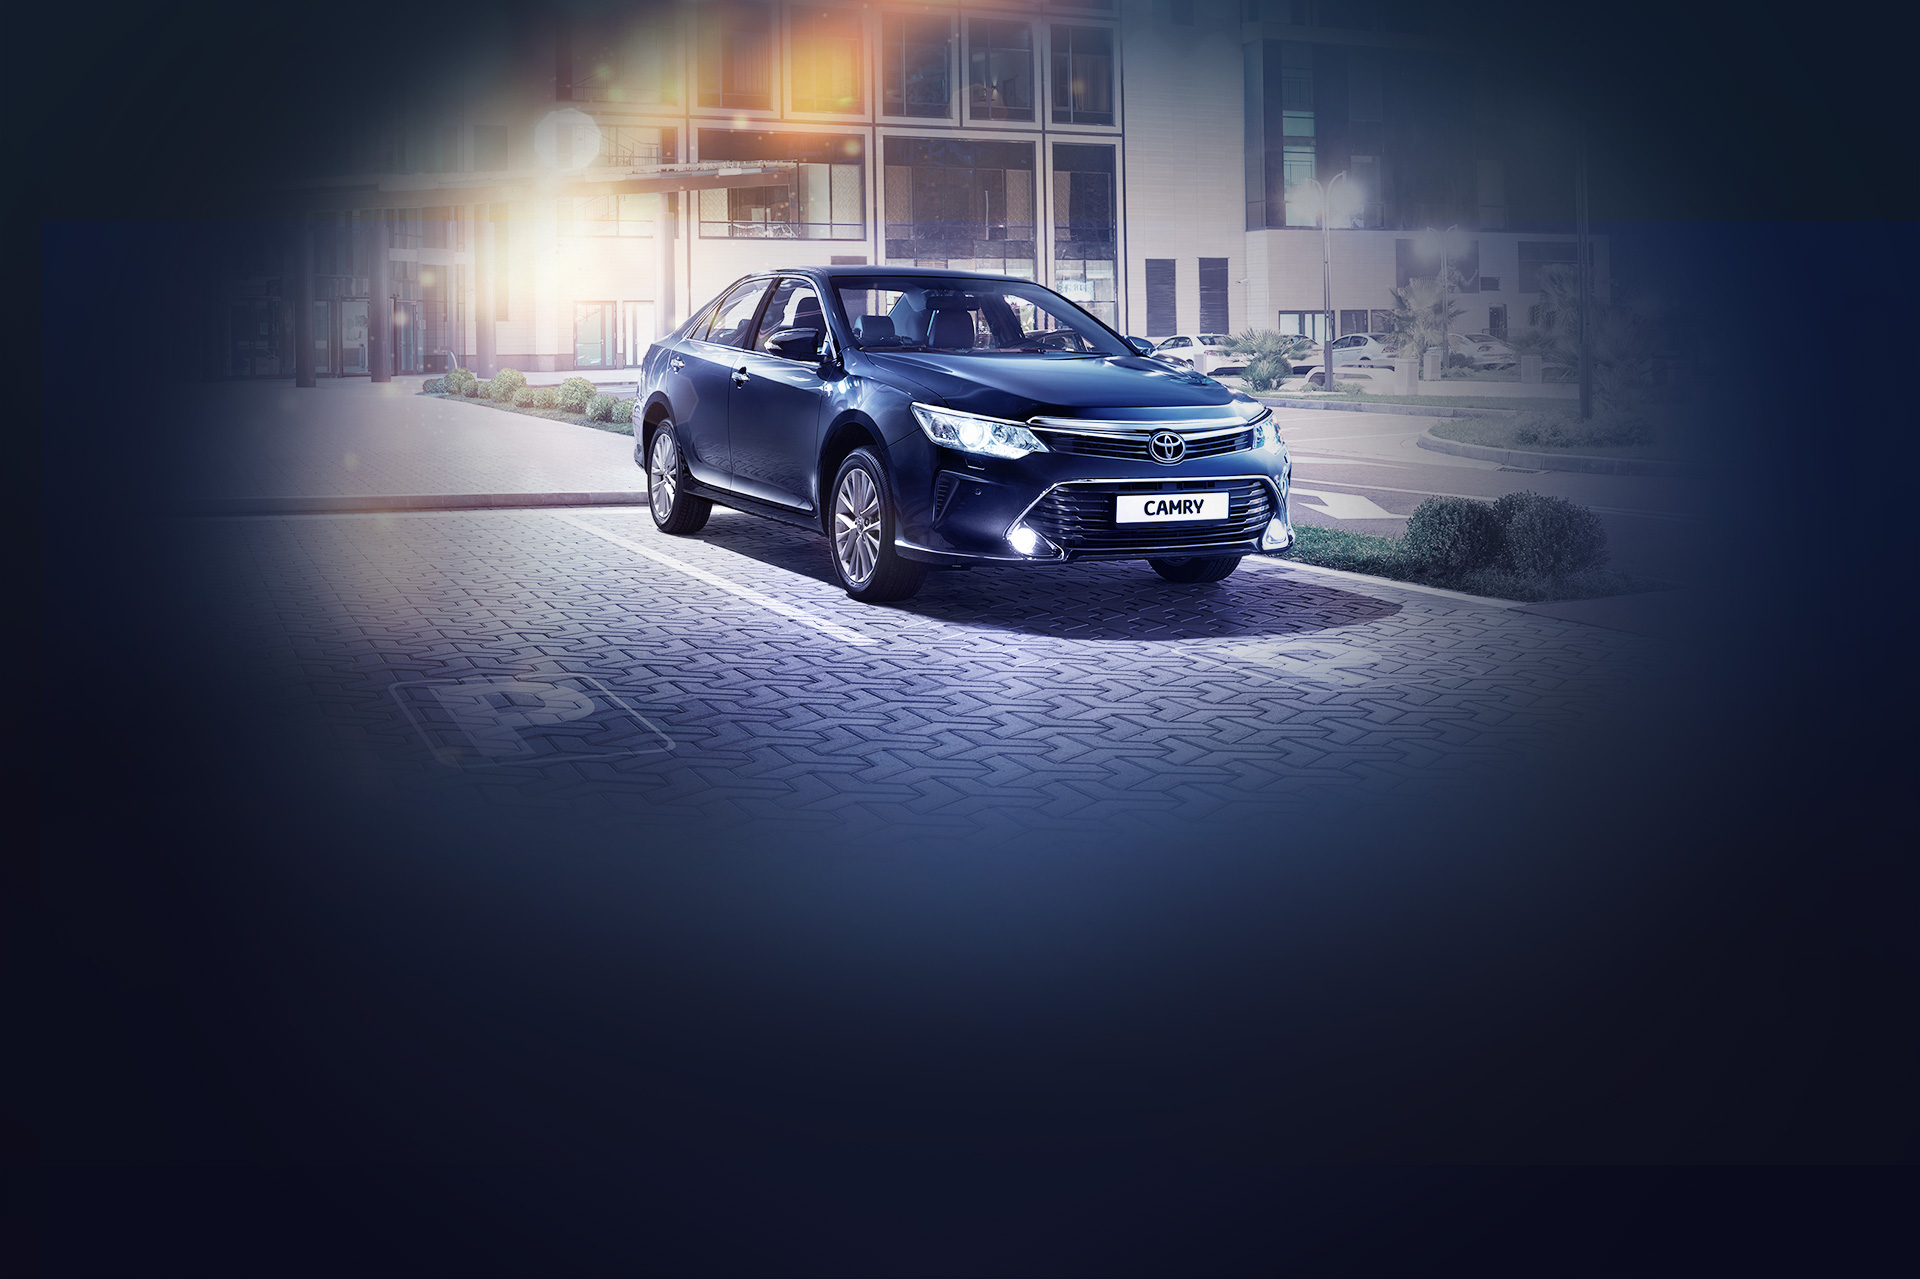
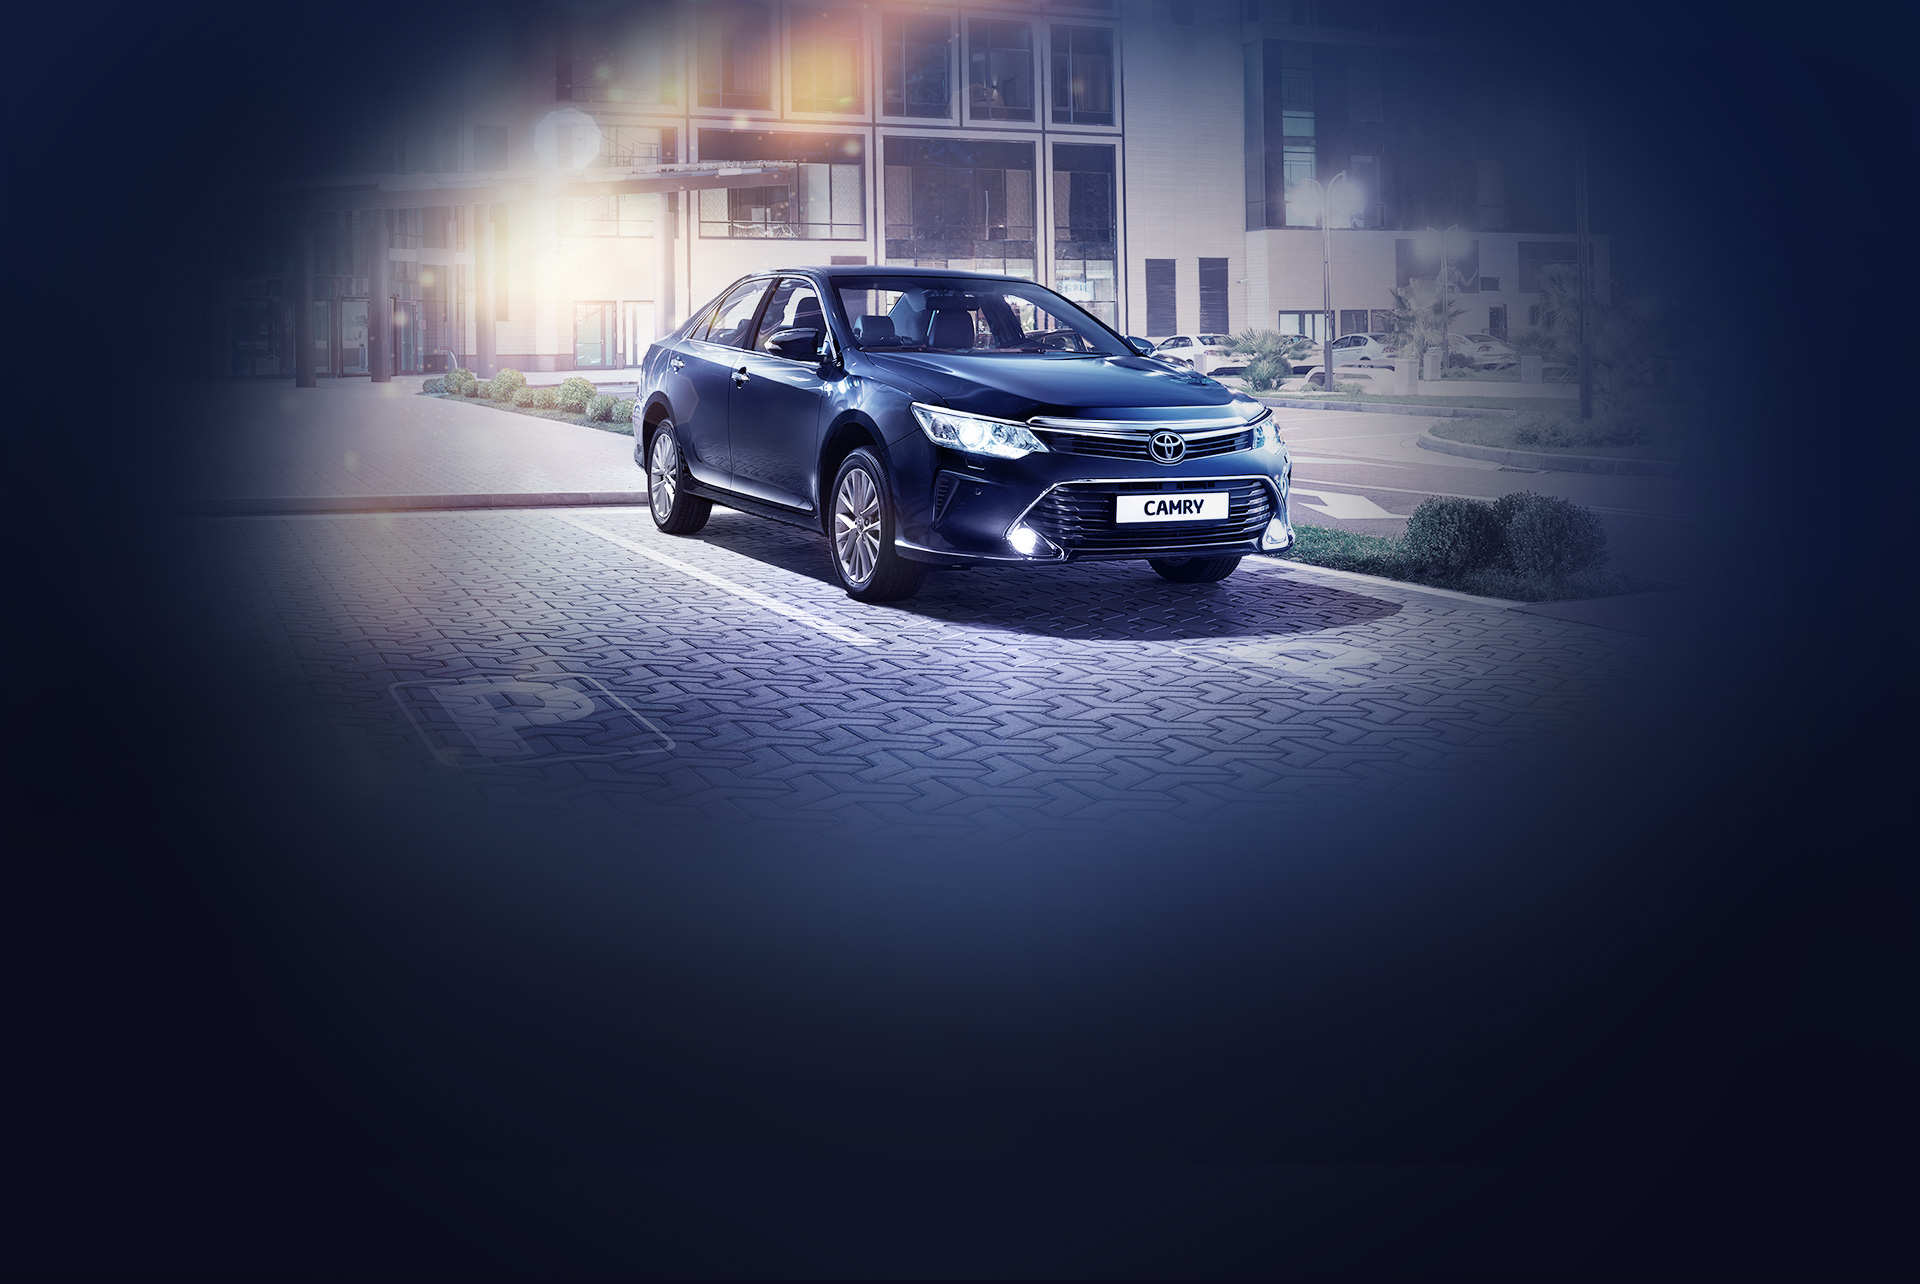
ksps

Changed region(s): [[0.1875, 0.0, 0.8125, 0.6099]]

diff --git a/public/theme/app/styles/_ksps.scss b/public/theme/app/styles/_ksps.scss
@@ -1,0 +1,145 @@
+.ksps {
+    background-image: url(../images/no/background.jpg);
+    background-size: 1920rem / $fs 1284rem / $fs;
+    background-position: center top;
+    background-repeat: no-repeat;
+    background-color: #0a0b1d;
+
+    .ksps__title {
+        font-family: 'toyota_display';
+        font-weight: 700;
+        font-size: 56rem / $fs;
+        color: #fff;
+        text-align: center;
+        margin-top: 70rem / $fs;
+    }
+
+    .ksps-list {
+        font-size: 0;
+        margin-top: 60rem / $fs;
+
+        .list__item-big {
+            position: relative;
+            display: inline-block;
+            vertical-align: top;
+            height: 305rem / $fs;
+            width: 50%;
+
+            .big__block {
+                position: relative;
+                display: inline-block;
+                vertical-align: top;
+                box-sizing: border-box;
+                width: 50%;
+                height: 305rem / $fs;
+                padding: 2.5rem / $fs;
+
+                .block__content {
+                    display: inline-block;
+                    height: 100%;
+                    width: 100%;
+                    background-position: center center;
+                    background-size: cover;
+                }
+
+                &:first-child {
+                    &:before {
+                        content: "";
+                        position: absolute;
+                        top: 0;
+                        left: 0;
+                        right: 0;
+                        bottom: 0;
+                        border: 5rem / $fs solid #fff;
+                        opacity: 0;
+                        transition: all .5s ease;
+                    }
+                }
+            }
+
+            .big__hover {
+                position: absolute;
+                right: 0;
+                top: 0;
+                bottom: 0;
+                left: 49%;
+                background: #fff;
+                opacity: 0;
+                transition: all .5s ease;
+                color: #000;
+                font-size: 13rem / $fs;
+
+                .hover__info {
+                    display: inline-block;
+                    vertical-align: middle;
+                    width: 90%;
+                    padding-left: 15rem / $fs;
+
+                    .hover__title {
+                        font-size: 30rem / $fs;
+                        font-weight: 700;
+                        font-family: 'toyota_display';
+                    }
+
+                    .hover__text {
+                        color: #323d46;
+                        //margin-top: 5rem / $fs;
+                    }
+                }
+
+                &:before {
+                    content: "";
+                    width: 0;
+                    height: 100%;
+                    display: inline-block;
+                    vertical-align: middle;
+                }
+            }
+
+            &:hover {
+                .big__hover {
+                    opacity: 1;
+                }
+                .big__block {
+                    &:before {
+                        opacity: 1;
+                    }
+                }
+            }
+        }
+    }
+
+    &:before {
+        content: "";
+        position: absolute;
+        left: 50%;
+        top: 0;
+        bottom: 0;
+        width: 100rem / $fs;
+        margin-left: -960rem / $fs;
+        background: -moz-linear-gradient(left,  rgba(10, 11, 29, 1) 0%, rgba(0,0,0,0) 100%); /* FF3.6+ */
+        background: -webkit-gradient(linear, left top, right top, color-stop(0%,rgba(10, 11, 29, 1)), color-stop(100%,rgba(0,0,0,0))); /* Chrome,Safari4+ */
+        background: -webkit-linear-gradient(left,  rgba(10, 11, 29, 1) 0%,rgba(0,0,0,0) 100%); /* Chrome10+,Safari5.1+ */
+        background: -o-linear-gradient(left,  rgba(10, 11, 29, 1) 0%,rgba(0,0,0,0) 100%); /* Opera 11.10+ */
+        background: -ms-linear-gradient(left,  rgba(10, 11, 29, 1) 0%,rgba(0,0,0,0) 100%); /* IE10+ */
+        background: linear-gradient(to right,  rgba(10, 11, 29, 1) 0%,rgba(0,0,0,0) 100%); /* W3C */
+        filter: progid:DXImageTransform.Microsoft.gradient( startColorstr='#131220', endColorstr='#00000000',GradientType=1 ); /* IE6-9 */
+    }
+
+    &:after {
+        content: "";
+        position: absolute;
+        left: 50%;
+        top: 0;
+        bottom: 0;
+        width: 100rem / $fs;
+        margin-left: 860rem / $fs;
+        background: -moz-linear-gradient(left,  rgba(0,0,0,0) 0%, rgba(10, 11, 29, 1) 100%); /* FF3.6+ */
+        background: -webkit-gradient(linear, left top, right top, color-stop(0%,rgba(0,0,0,0)), color-stop(100%,rgba(10, 11, 29, 1))); /* Chrome,Safari4+ */
+        background: -webkit-linear-gradient(left,  rgba(0,0,0,0) 0%,rgba(10, 11, 29, 1) 100%); /* Chrome10+,Safari5.1+ */
+        background: -o-linear-gradient(left,  rgba(0,0,0,0) 0%,rgba(10, 11, 29, 1) 100%); /* Opera 11.10+ */
+        background: -ms-linear-gradient(left,  rgba(0,0,0,0) 0%,rgba(10, 11, 29, 1) 100%); /* IE10+ */
+        background: linear-gradient(to right,  rgba(0,0,0,0) 0%,rgba(10, 11, 29, 1) 100%); /* W3C */
+        filter: progid:DXImageTransform.Microsoft.gradient( startColorstr='#00000000', endColorstr='#131220',GradientType=1 ); /* IE6-9 */
+    }
+}

diff --git a/public/theme/app/styles/_yes.scss b/public/theme/app/styles/_yes.scss
@@ -383,7 +383,10 @@
 
     &.no-screen {
         background-image: url(../images/no/background.jpg);
-        background-size: 1920rem / $fs 1279rem / $fs;
+        background-size: 1920rem / $fs 1284rem / $fs;
+        background-position: center top;
+        background-repeat: no-repeat;
+        background-color: #0a0b1d;
 
         .list__main-item {
             display: none;
@@ -404,6 +407,40 @@
                     display: none;
                 } 
             }
+        }
+
+        &:before {
+            content: "";
+            position: absolute;
+            left: 50%;
+            top: 0;
+            bottom: 0;
+            width: 100rem / $fs;
+            margin-left: -960rem / $fs;
+            background: -moz-linear-gradient(left,  rgba(10, 11, 29, 1) 0%, rgba(0,0,0,0) 100%); /* FF3.6+ */
+            background: -webkit-gradient(linear, left top, right top, color-stop(0%,rgba(10, 11, 29, 1)), color-stop(100%,rgba(0,0,0,0))); /* Chrome,Safari4+ */
+            background: -webkit-linear-gradient(left,  rgba(10, 11, 29, 1) 0%,rgba(0,0,0,0) 100%); /* Chrome10+,Safari5.1+ */
+            background: -o-linear-gradient(left,  rgba(10, 11, 29, 1) 0%,rgba(0,0,0,0) 100%); /* Opera 11.10+ */
+            background: -ms-linear-gradient(left,  rgba(10, 11, 29, 1) 0%,rgba(0,0,0,0) 100%); /* IE10+ */
+            background: linear-gradient(to right,  rgba(10, 11, 29, 1) 0%,rgba(0,0,0,0) 100%); /* W3C */
+            filter: progid:DXImageTransform.Microsoft.gradient( startColorstr='#131220', endColorstr='#00000000',GradientType=1 ); /* IE6-9 */
+        }
+
+        &:after {
+            content: "";
+            position: absolute;
+            left: 50%;
+            top: 0;
+            bottom: 0;
+            width: 100rem / $fs;
+            margin-left: 860rem / $fs;
+            background: -moz-linear-gradient(left,  rgba(0,0,0,0) 0%, rgba(10, 11, 29, 1) 100%); /* FF3.6+ */
+            background: -webkit-gradient(linear, left top, right top, color-stop(0%,rgba(0,0,0,0)), color-stop(100%,rgba(10, 11, 29, 1))); /* Chrome,Safari4+ */
+            background: -webkit-linear-gradient(left,  rgba(0,0,0,0) 0%,rgba(10, 11, 29, 1) 100%); /* Chrome10+,Safari5.1+ */
+            background: -o-linear-gradient(left,  rgba(0,0,0,0) 0%,rgba(10, 11, 29, 1) 100%); /* Opera 11.10+ */
+            background: -ms-linear-gradient(left,  rgba(0,0,0,0) 0%,rgba(10, 11, 29, 1) 100%); /* IE10+ */
+            background: linear-gradient(to right,  rgba(0,0,0,0) 0%,rgba(10, 11, 29, 1) 100%); /* W3C */
+            filter: progid:DXImageTransform.Microsoft.gradient( startColorstr='#00000000', endColorstr='#131220',GradientType=1 ); /* IE6-9 */
         }
     }
 

diff --git a/public/theme/app/scripts/main.js b/public/theme/app/scripts/main.js
@@ -599,30 +599,30 @@ Camry.yesScreen = function() {
         $(document).on('keydown', function(e){ 
             var code = e.which;
             if(code == 40) {
+                e.preventDefault();
                 self.navigation.bottom();
             }
-            e.preventDefault();
         });
         $(document).on('keydown', function(e){ 
             var code = e.which;
             if(code == 38) {
+                e.preventDefault();
                 self.navigation.top();
             }
-            e.preventDefault();
         });
         $(document).on('keydown', function(e){ 
             var code = e.which;
             if(code == 37) {
+                e.preventDefault();
                 self.navigation.left();
             }
-            e.preventDefault();
         });
         $(document).on('keydown', function(e){ 
             var code = e.which;
             if(code == 39) {
+                e.preventDefault();
                 self.navigation.right();
             }
-            e.preventDefault();
         });
     }
     this.init = function() {

diff --git a/public/theme/app/styles/main.scss b/public/theme/app/styles/main.scss
@@ -13,5 +13,6 @@ $defaultEasing: cubic-bezier(0.135, 0.780, 0.465, 0.995);
 @import "screen";
 @import "yes";
 @import "complectation";
+@import "ksps";
 
 @import "media";
